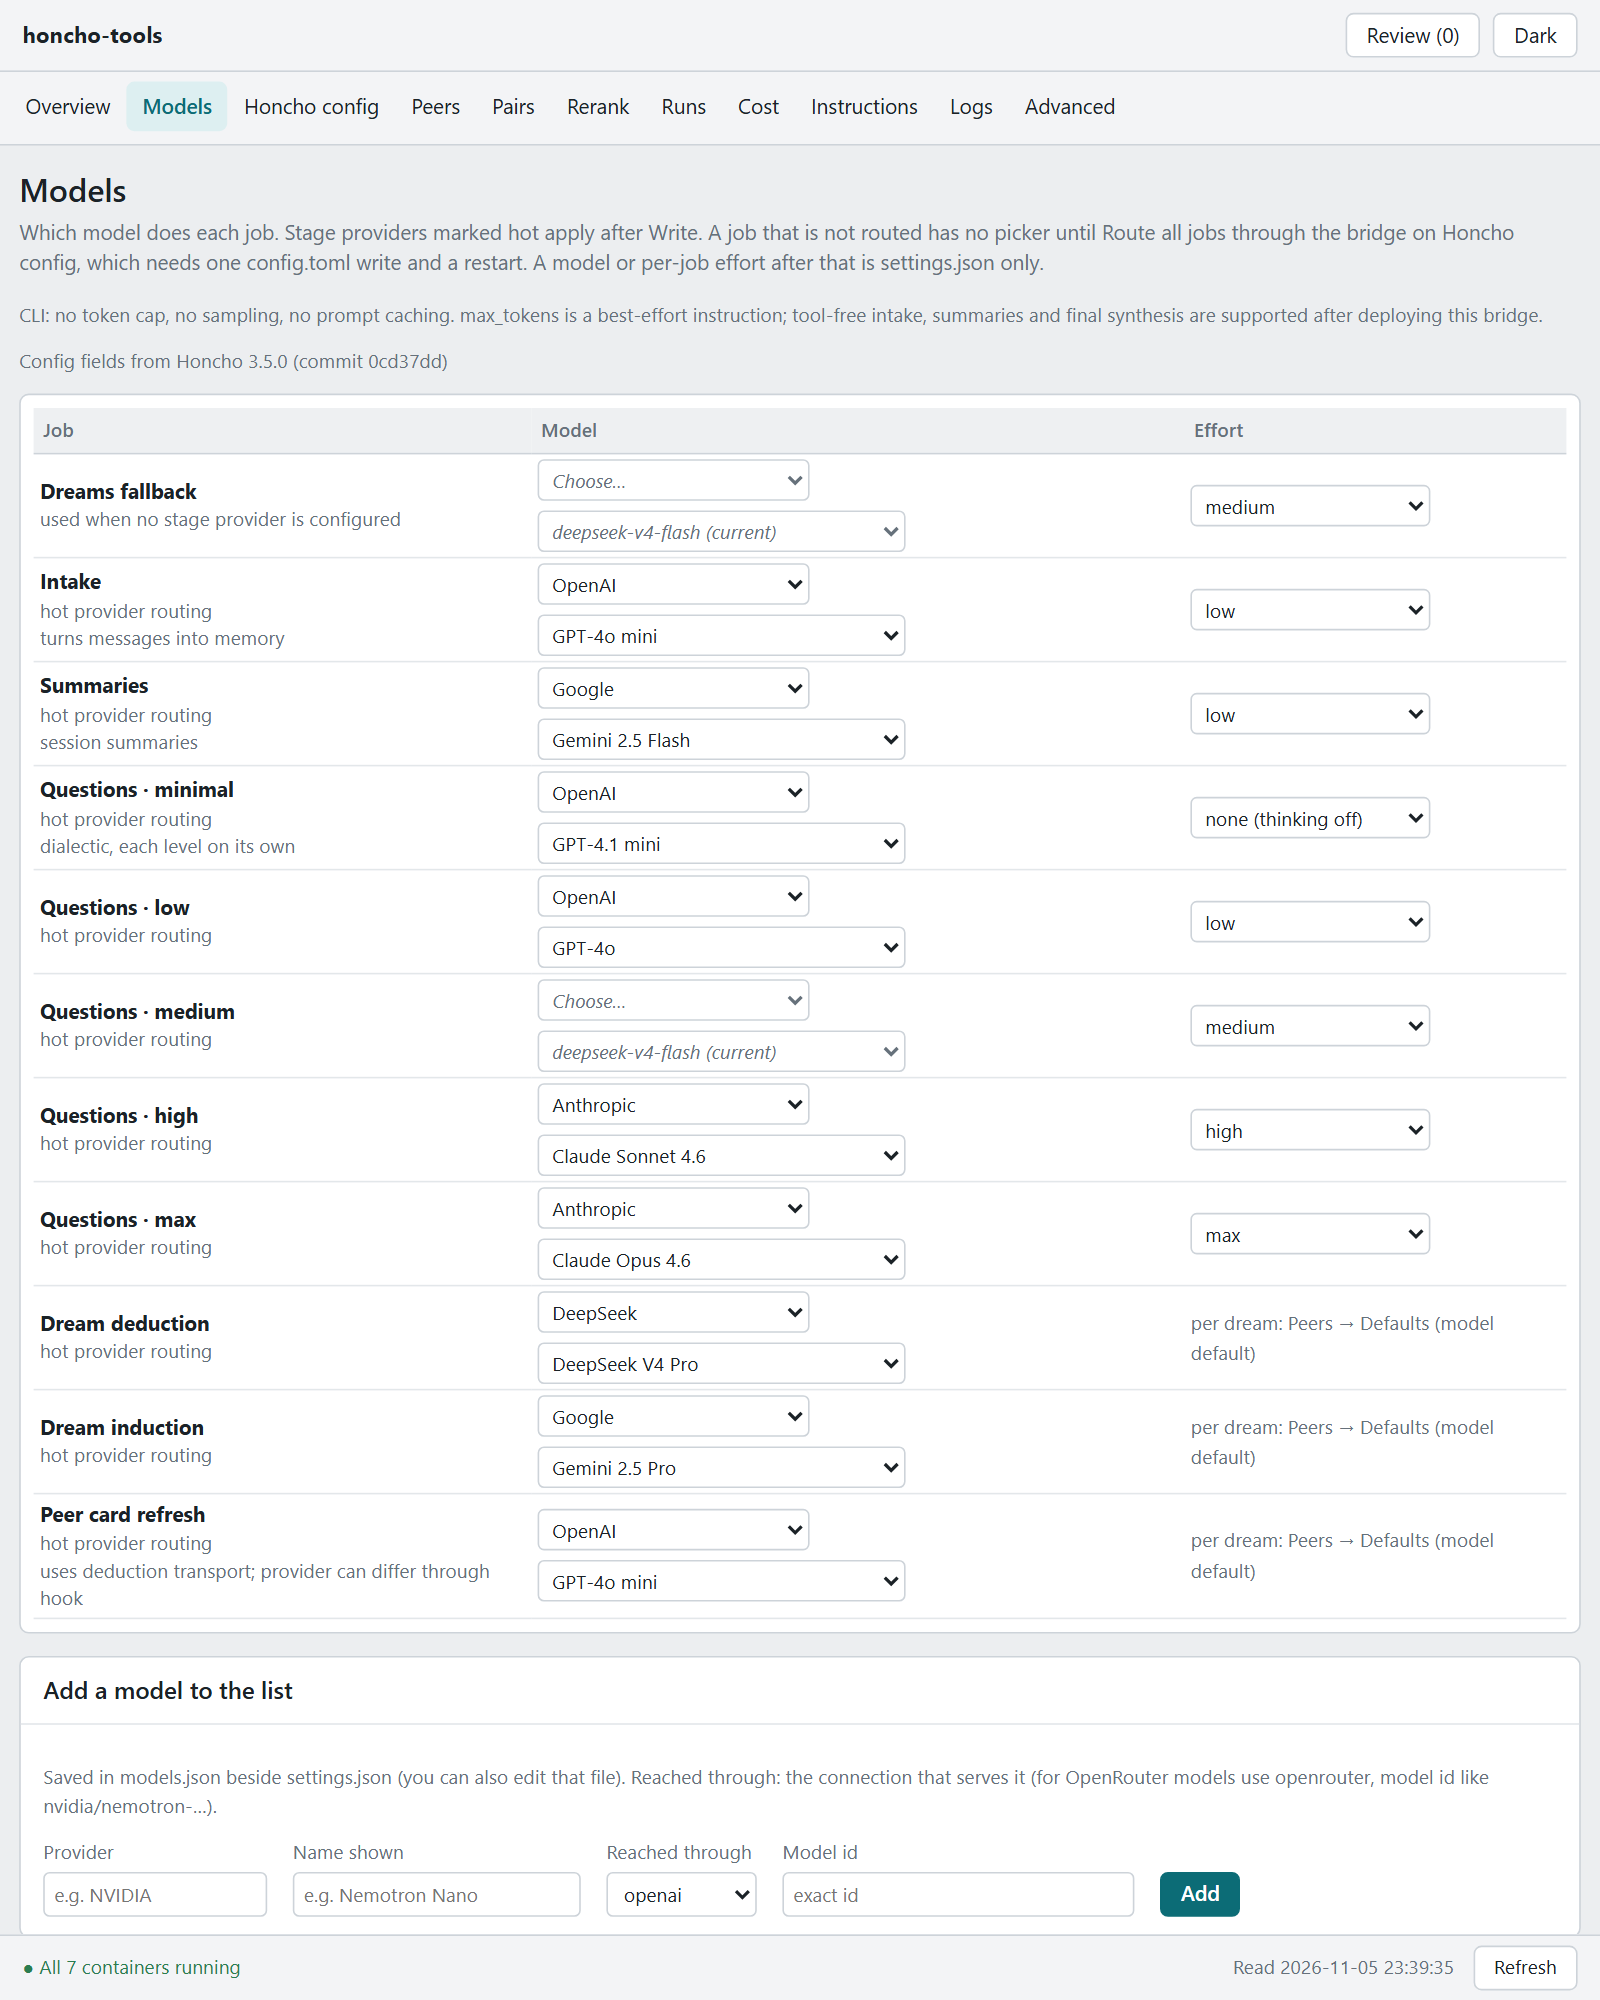
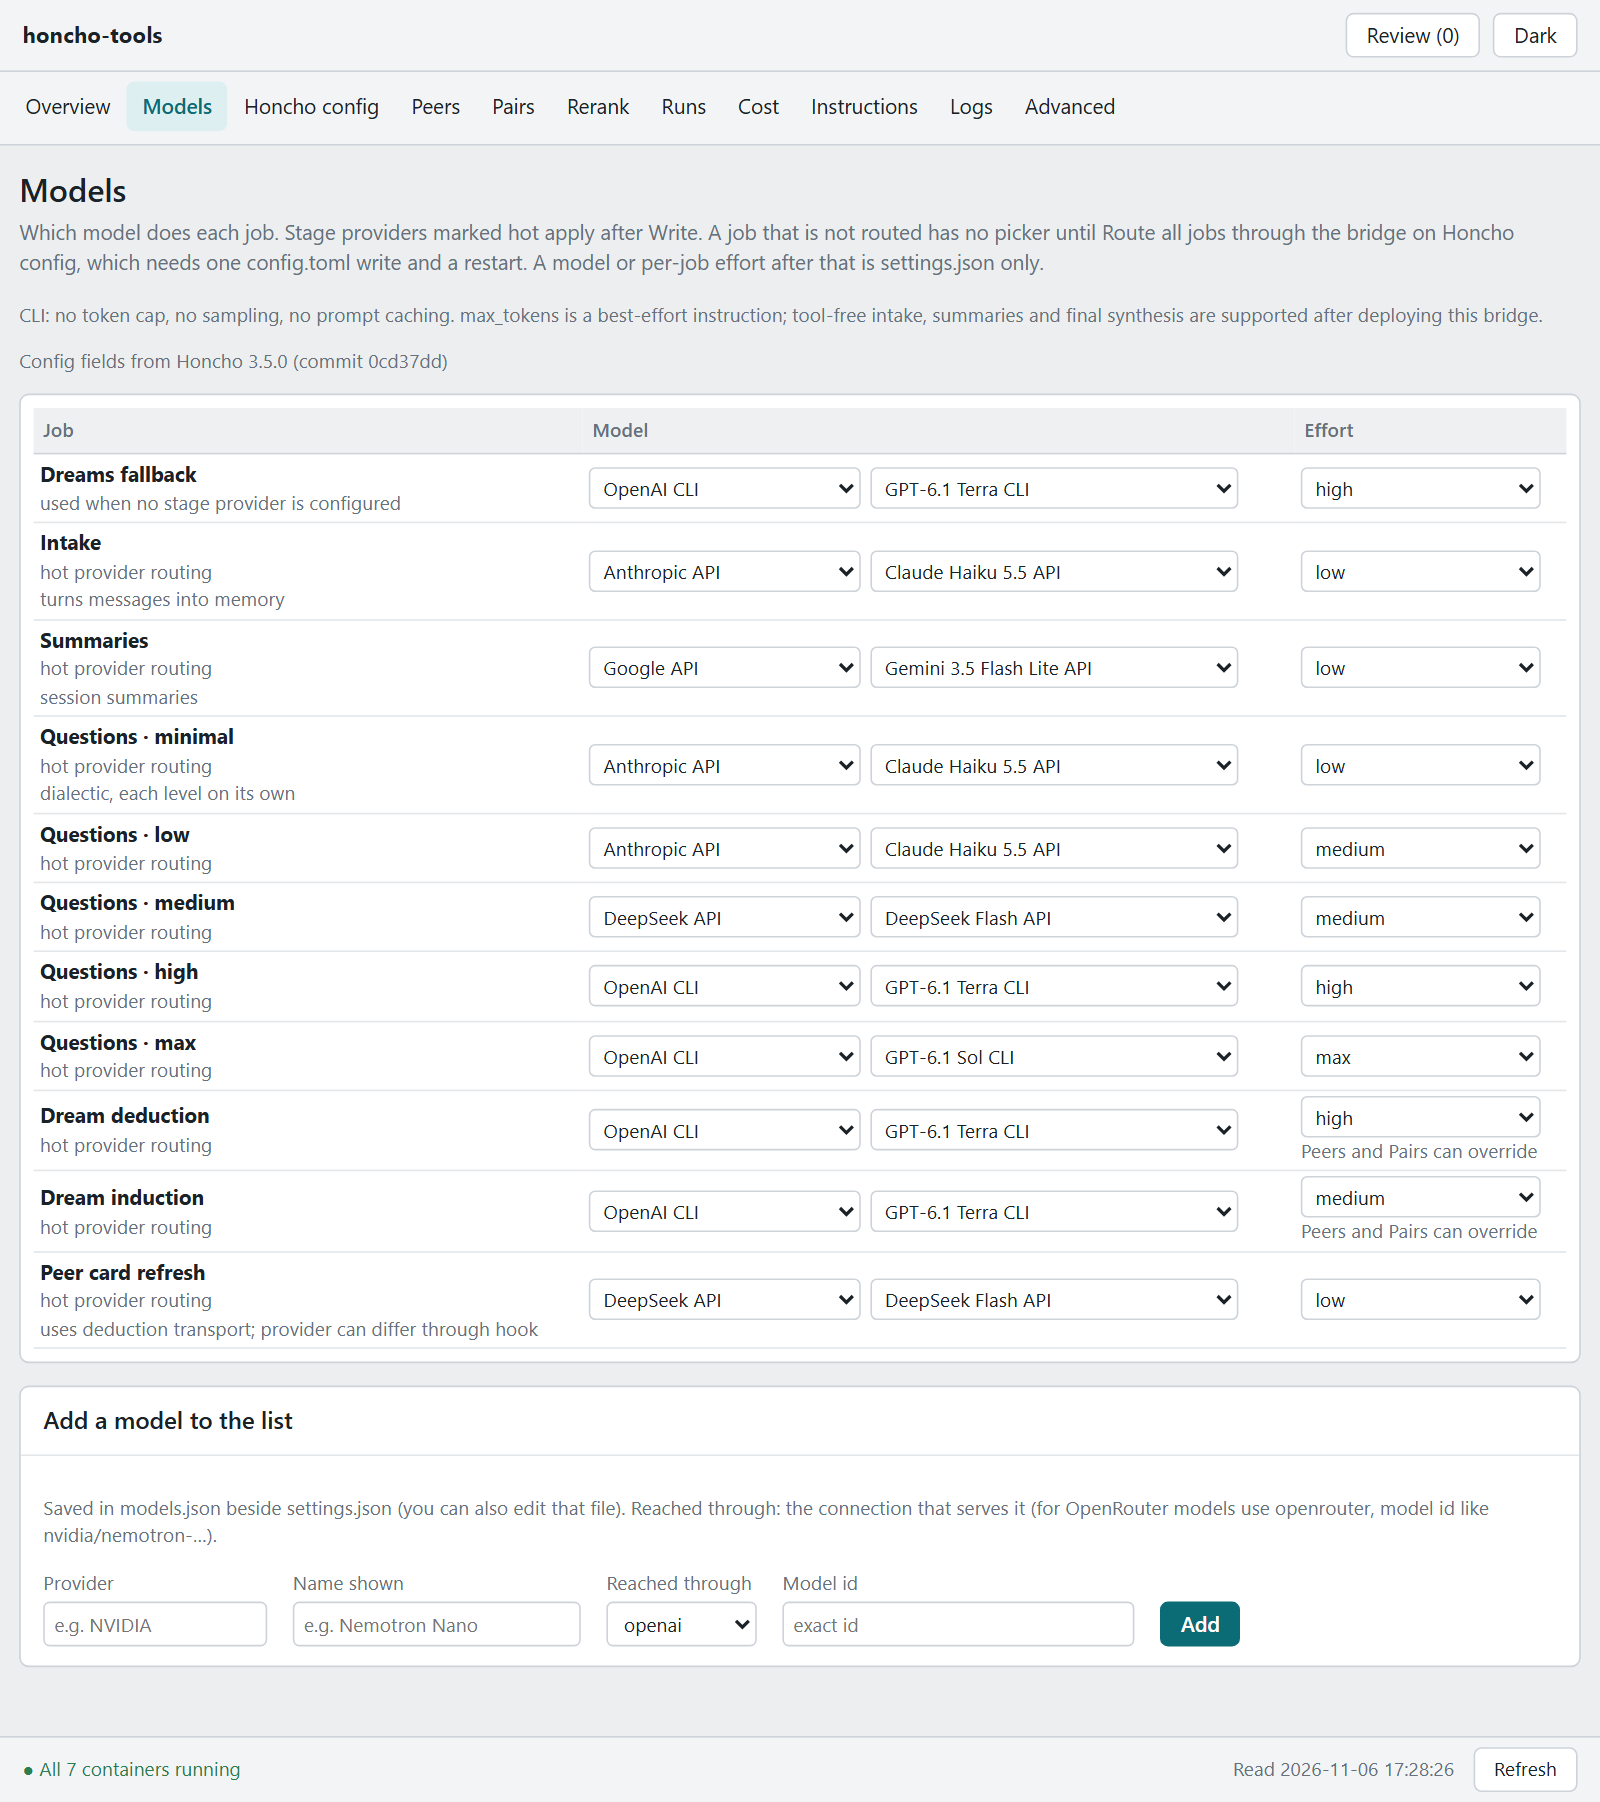
Separate API and CLI in the model pickers
API and CLI routes are now separate providers, such as OpenAI API and
OpenAI CLI, and every model name ends in API or CLI, so a CLI
subscription cannot be picked for its paid API by mistake.

diff --git a/src/dashboard/app/index.html b/src/dashboard/app/index.html
@@ -488,7 +488,14 @@ function shortLabel(ref) {
   const e = dreamEntries().find((x) => x.backend === b && x.model === m.join(":"));
   return e ? e.label : (m.join(":") || b);
 }
-function dreamEntries() { return S.catalogue.dream || []; }
+// Every provider and model says how it is reached, so a CLI subscription cannot be picked for its API by mistake.
+function dreamEntries() {
+  const backends = (S.settings && S.settings.providers.backends) || {};
+  return (S.catalogue.dream || []).map((e) => {
+    const route = String((backends[e.backend] || {}).kind).startsWith("cli-") ? "CLI" : "API";
+    return { ...e, vendor: e.vendor + " " + route, label: e.label.replace(/ \((Codex|Claude) CLI\)$/, "") + " " + route };
+  });
+}
 function entryLabel(backend, model) {
   const e = dreamEntries().find((x) => x.backend === backend && x.model === model);
   return e ? e.vendor + " · " + e.label : (model || "?") + " (" + backend + ")";
@@ -936,7 +943,7 @@ function pageHoncho() {
 }
 function addModelBox() {
   const backends = Object.keys(S.settings.providers.backends);
-  const form = { vendor: vendorsOf()[0] || "", label: "", backend: backends[0] || "", model: "" };
+  const form = { vendor: ((S.catalogue.dream || [])[0] || {}).vendor || "", label: "", backend: backends[0] || "", model: "" };
   const input = (k, ph, w) => h("input", { type: "text", placeholder: ph, style: "width:" + w + "px", oninput: (e) => { form[k] = e.target.value; } });
   return h("div", { class: "box" }, h("h2", {}, "Add a model to the list"), h("div", { class: "in" },
     h("p", { class: "hint" }, "Saved in models.json beside settings.json (you can also edit that file). Reached through: the connection that serves it (for OpenRouter models use openrouter, model id like nvidia/nemotron-…)."),

diff --git a/tests/test_models_ui.py b/tests/test_models_ui.py
@@ -354,6 +354,29 @@ assertSummary();
     assert result.returncode == 0, result.stderr
 
 
+def test_model_pickers_name_the_route():
+    node = shutil.which("node")
+    if not node:
+        pytest.skip("node is not installed")
+    source = (ROOT / "src/dashboard/app/index.html").read_text(encoding="utf-8")
+    functions = source[source.index("function dreamEntries()"):source.index("function entryLabel(")]
+    checks = """
+const assert = require('assert');
+const S = {settings: {providers: {backends: {openai: {kind: "openai-compat"}, codex: {kind: "cli-codex"}, claude: {kind: "cli-claude"}}}},
+  catalogue: {dream: [{vendor: "OpenAI", label: "GPT-6 Sol", backend: "openai", model: "gpt-6-sol"},
+    {vendor: "OpenAI", label: "GPT-6.1 Sol (Codex CLI)", backend: "codex", model: "gpt-6.1-sol"},
+    {vendor: "Anthropic", label: "Claude Fable 5.1 (Claude CLI)", backend: "claude", model: "claude-fable-5-1"},
+    {vendor: "OpenAI", label: "GPT-5 nano (OpenRouter)", backend: "openrouter", model: "openai/gpt-5-nano"}]}};
+"""
+    checks += """
+const shown = dreamEntries().map((e) => e.vendor + " | " + e.label);
+assert.deepEqual(shown, ["OpenAI API | GPT-6 Sol API", "OpenAI CLI | GPT-6.1 Sol CLI", "Anthropic CLI | Claude Fable 5.1 CLI", "OpenAI API | GPT-5 nano (OpenRouter) API"]);
+assert.equal(S.catalogue.dream[0].vendor, "OpenAI");
+"""
+    result = subprocess.run([node, "-e", functions + checks], capture_output=True, text=True, timeout=10)
+    assert result.returncode == 0, result.stderr
+
+
 def test_no_page_writes_the_embedding_model():
     # The embedding model is set once in config.toml at install. No page reads or writes embedding.model_config.
     source = (ROOT / "src/dashboard/app/index.html").read_text(encoding="utf-8")

diff --git a/docs/OPERATIONS.md b/docs/OPERATIONS.md
@@ -62,7 +62,8 @@ select; both write `providers.stages` in `settings.json` and apply at the next c
 `providers.active`, used by a dream when no stage entry and no `backend` override applies. A dream pass's own effort
 (Pairs, Peers, Defaults) wins over the job's effort on the Models page; **Peer card refresh** takes its effort from Models only. An effort left blank says "Model default" plus
 the level it resolves to, here and on Peers and Pairs; alone, "Model default" means no level is set anywhere. **Add a model to the list**
-adds a catalogue entry (`models.json`) for the dropdowns.
+adds a catalogue entry (`models.json`) for the dropdowns. Every picker names the route: OpenAI API and OpenAI CLI are separate
+providers, and each model ends in API or CLI. The route comes from the backend's `kind`.
 
 A backend itself (`providers.backends`) is added, renamed or removed in `settings.json` by hand; the dashboard
 refuses a save that leaves `providers.active`, `defaults.backend`, a peer, a pair or a stage naming a backend that

diff --git a/CHANGELOG.md b/CHANGELOG.md
@@ -9,6 +9,7 @@
 - Cost: a fallback call with no billing route counts as API, not as a potential cost. The bridge always reports its route, so such a call went straight to the provider.
 - Dashboard: an open tab notices a changed `settings.json` within 30 seconds, or when you return to it, and reloads; with unsaved changes it keeps them and warns. It used to show what it read at page load until reloaded by hand. Runs and Cost refresh at the same pace.
 - `rates.json` prices every model in the catalogue: a new `embedding` table (OpenAI, Gemini, Voyage) and the OpenRouter models. Embeddings count in the cost totals and in each run's cost. Copy the new `src/config/rates.example.json` over your `rates.json`, keeping any prices of your own.
+- Model pickers: API and CLI routes are separate providers, such as OpenAI API and OpenAI CLI, and every model name ends in API or CLI. A CLI subscription could be mistaken for the same model on its paid API.
 
 ## v0.1.2 — 2026-11-06
 
